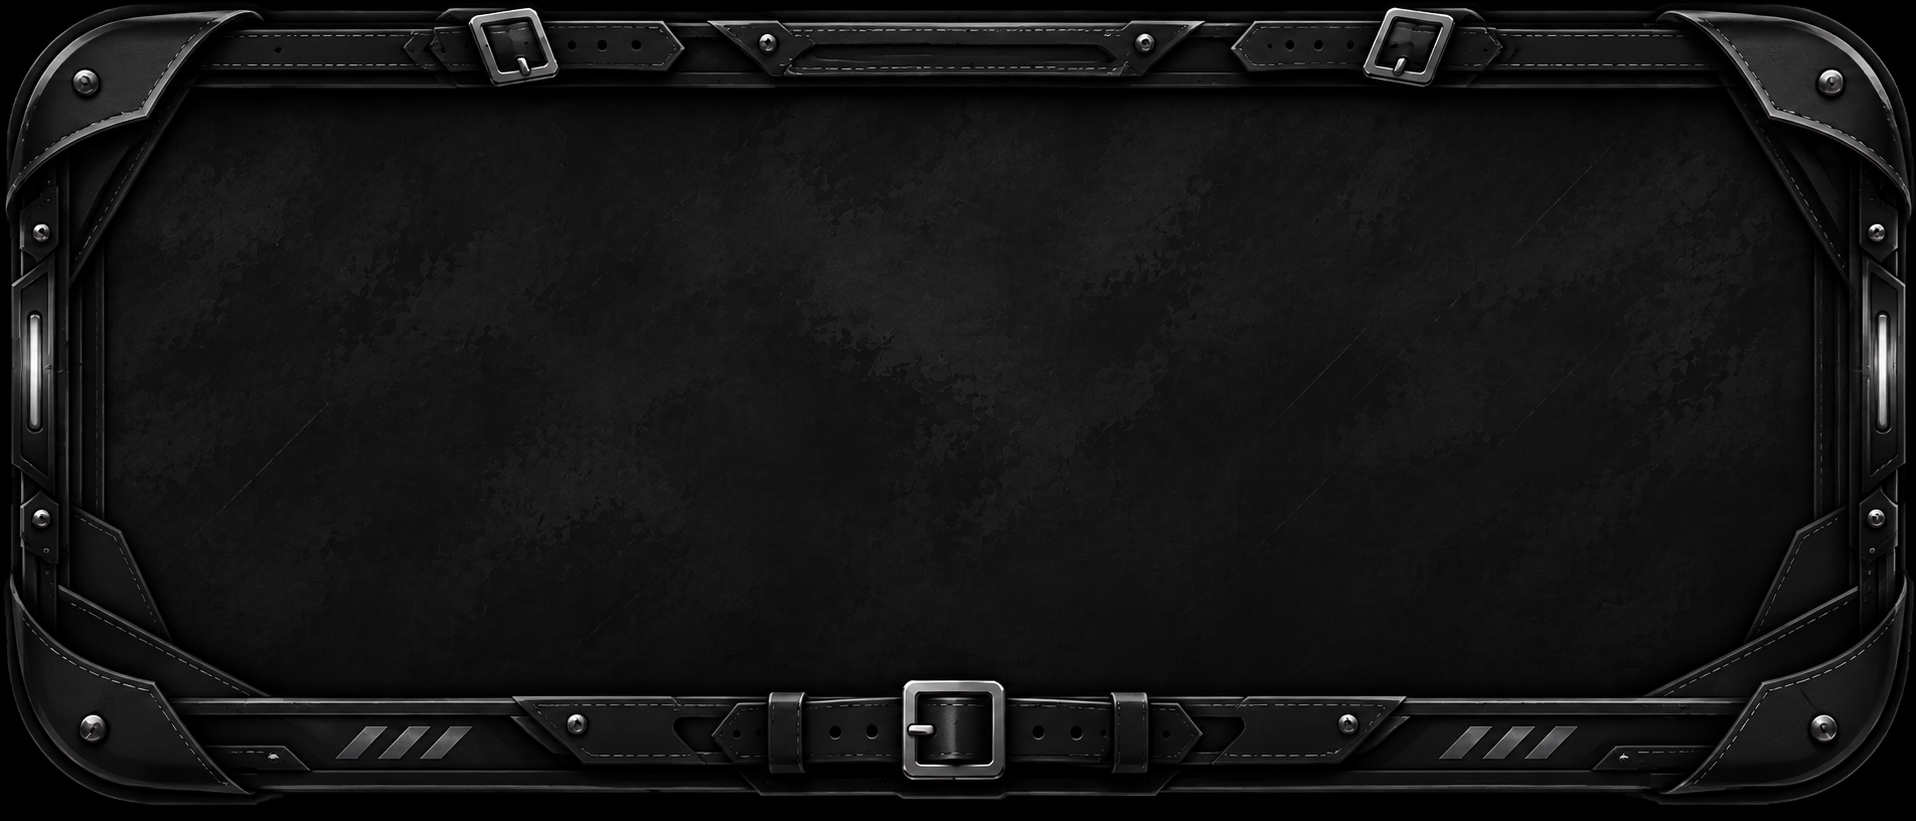
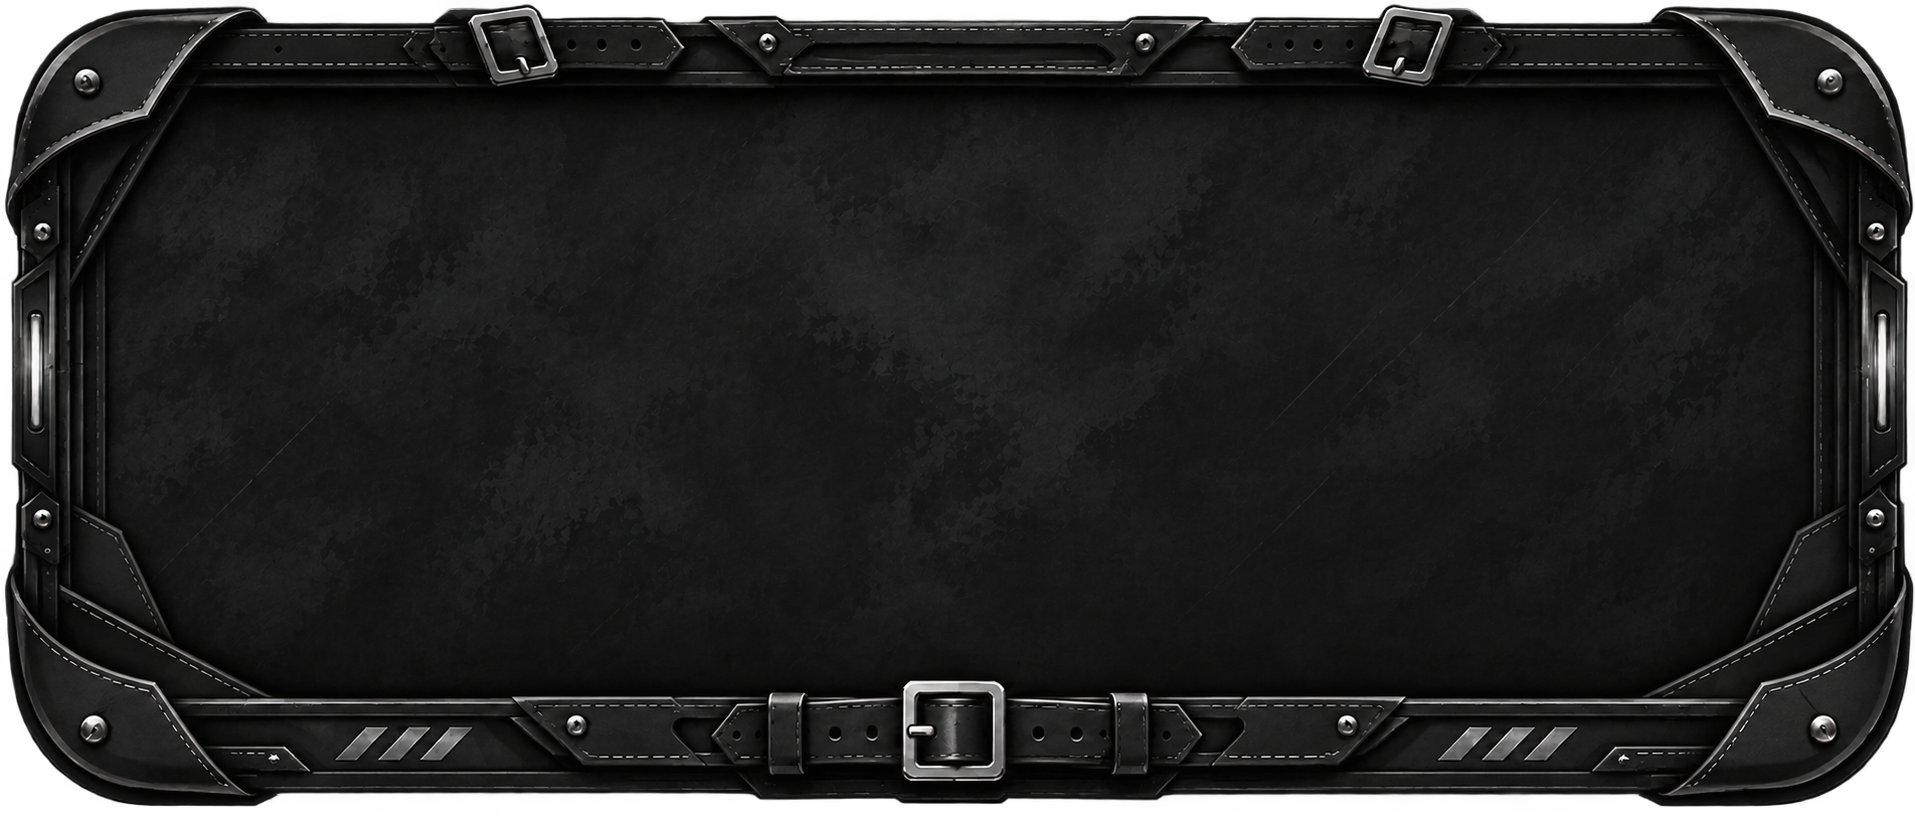
Карточка Боцмана: рамка с вырезанным фоном от художника
Claude-Session: https://claude.ai/code/session_01XtpZhZabEYUcJEQKQgYpHe

diff --git a/src/app/screens.css b/src/app/screens.css
@@ -6210,7 +6210,7 @@ html.eco .hs-page::after, html.eco .hs-page::before { animation: none; }
 /* Боцман's card: black leather with buckles (boss-card-frame-botsman.webp, 1200×514, the artist's; tools/ui/botsman-card.py);
  * inside it a dim green code rain falls in two layers at different speeds (botsman-rain.webp), and the two lamps on the
  * sides (at 27.6%–52.4% of the frame's stretched middle, 6 px in) flicker in green */
-.bcard.bcard-boss-botsman { --ink-c: #e6f2e8; --mute-c: #8fae96; border-image: url("/assets/ui/boss-card-frame-botsman.webp?v=1") 130 fill / 40px stretch; }
+.bcard.bcard-boss-botsman { --ink-c: #e6f2e8; --mute-c: #8fae96; border-image: url("/assets/ui/boss-card-frame-botsman.webp?v=2") 130 fill / 40px stretch; }
 .bcard.bcard-boss-botsman .bcard-name { text-shadow: 0 2px 0 rgba(0, 0, 0, 0.6), 0 0 12px rgba(80, 255, 140, 0.25); }
 .bcard.bcard-boss-botsman .bcard-reward { background: rgba(0, 0, 0, 0.35); box-shadow: inset 0 0 0 1.5px rgba(90, 200, 120, 0.25); }
 .bcard.bcard-boss-botsman::before { display: block; content: ""; position: absolute; inset: 24px 30px; z-index: 0; height: auto; border-radius: 6px; pointer-events: none;

diff --git a/tools/ui/botsman-card.py b/tools/ui/botsman-card.py
@@ -8,19 +8,10 @@ import random
 import numpy as np
 from PIL import Image, ImageDraw, ImageFont, ImageFilter
 
-src = Image.open("tools/ui/source/boss-card-frame-botsman.png").convert("RGB")
+src = Image.open("tools/ui/source/boss-card-frame-botsman.png").convert("RGBA")   # cut out by the artist
 W = 1200
-im = src.resize((W, round(src.height * W / src.width)), Image.LANCZOS).convert("RGBA")
+im = src.resize((W, round(src.height * W / src.width)), Image.LANCZOS)
 a = np.array(im)
-# the outside: near-black pixels reachable from the edges
-dark = a[..., :3].astype(int).sum(2) < 18
-from scipy import ndimage
-lab, _ = ndimage.label(dark)
-edge = set(np.unique(np.concatenate([lab[0], lab[-1], lab[:, 0], lab[:, -1]]))) - {0}
-out = np.isin(lab, list(edge))
-alpha = np.where(out, 0, 255).astype(np.uint8)
-alpha = np.array(Image.fromarray(alpha).filter(ImageFilter.GaussianBlur(1)))
-a[..., 3] = alpha
 Image.fromarray(a).save("public/assets/ui/boss-card-frame-botsman.webp", quality=90, method=6)
 print("frame", im.size)
 
